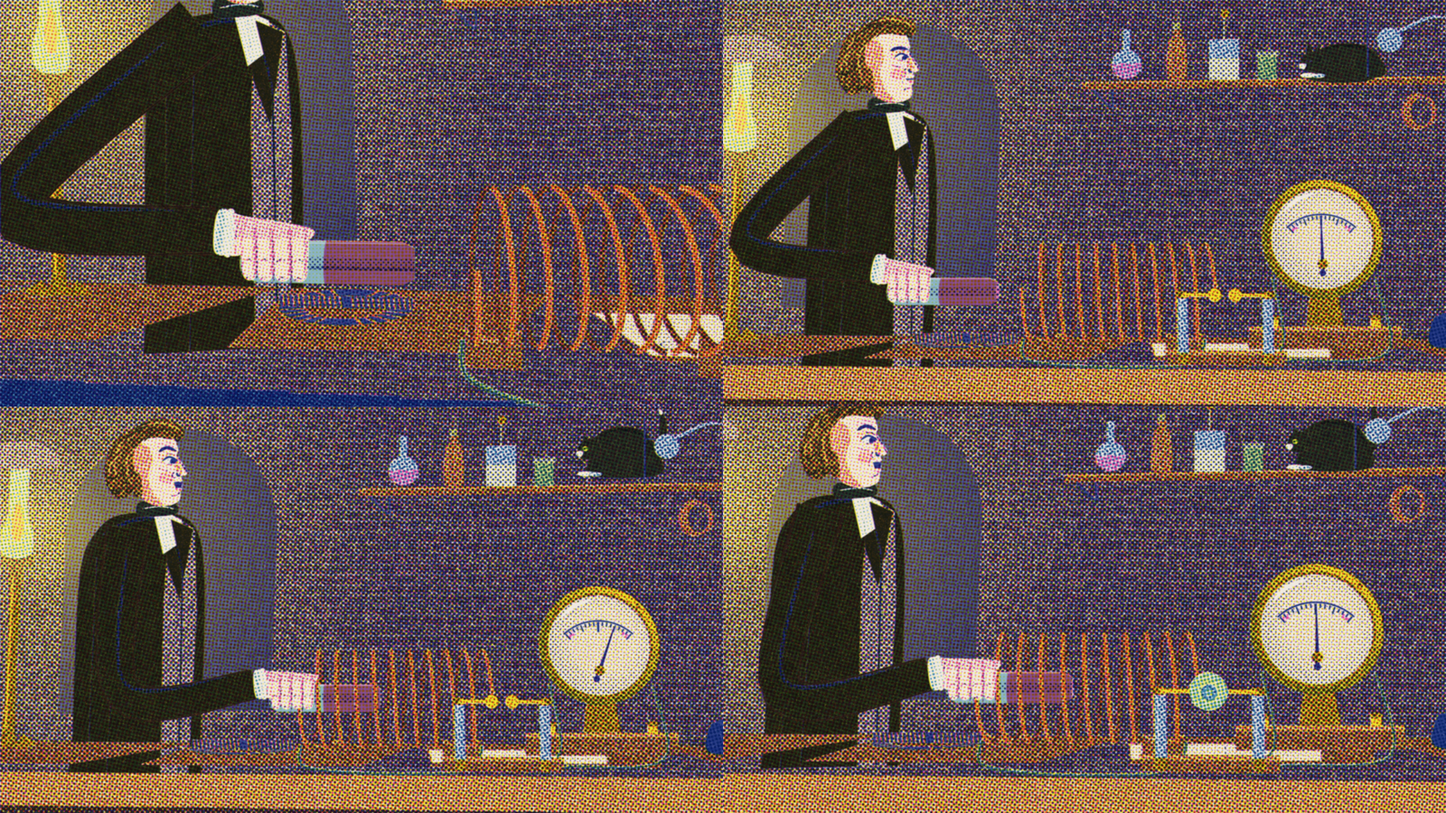
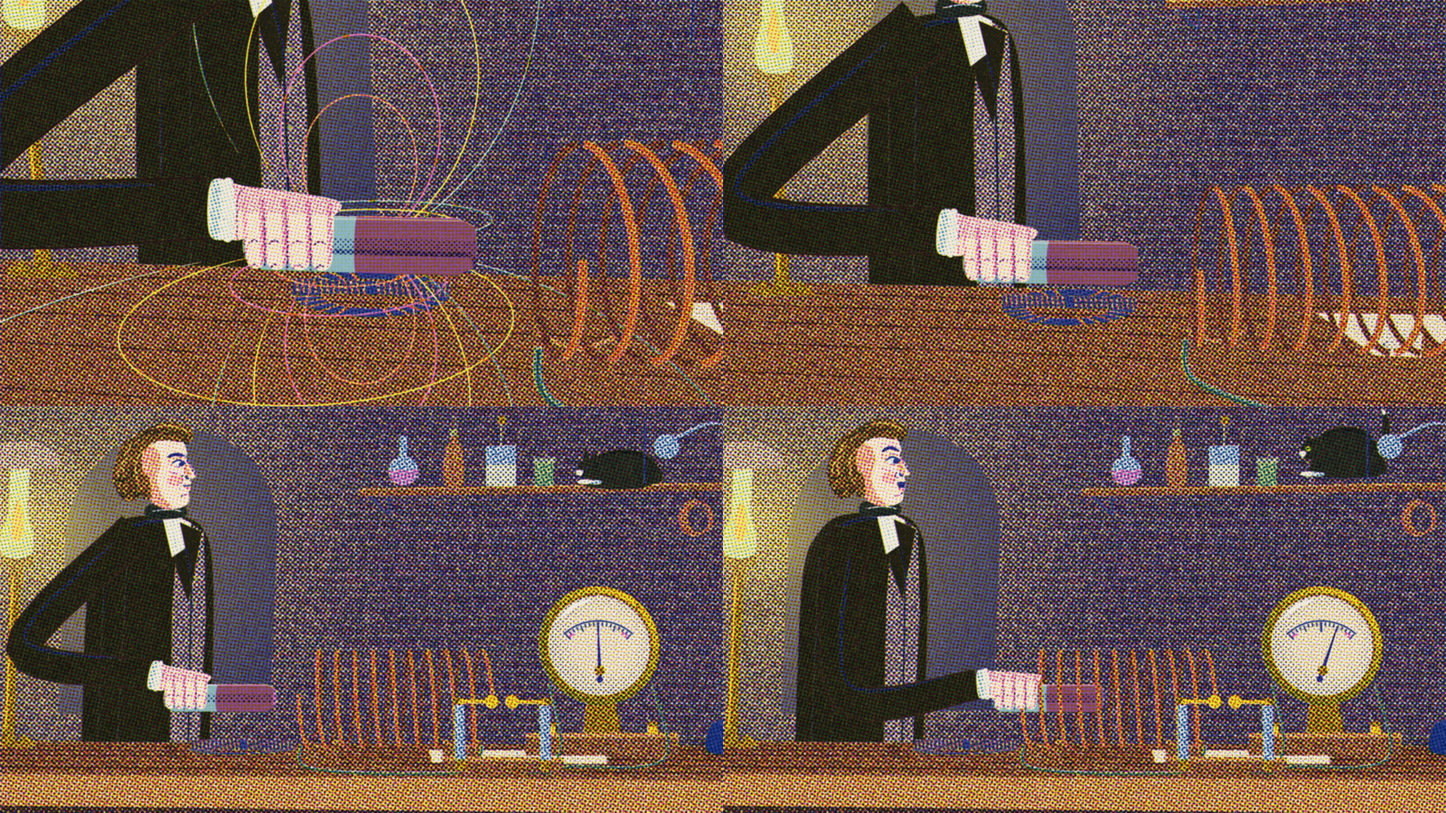
physics-history: Faraday's bench top and front as projected polygons (no seams near the camera)
Claude-Session: https://claude.ai/code/session_01FbC8jfwG91neyKwZD6gkGH

diff --git a/sandbox/2026-09-25-physics-history/lab-faraday.js b/sandbox/2026-09-25-physics-history/lab-faraday.js
@@ -149,27 +149,36 @@ const FarLab = (() => {
 
     // ── the bench ────────────────────────────────────────────────────────────────────────
     function bench(press, C, t) {
-        // the top: planks along x, grain, stains, scorch marks; seen low it is a thin band
-        tiled(press, C, [-1200, 0, -300], [1, 0, 0], [0, 0, 1], 0, 2600, 0, 420, 420, () => {
-            put(press, (g) => g.rect(-2, -2, 2604, 424), WOOD);
-            for (let i = 0; i < 6; i++) {
-                line(press, [[0, i * 70], [2600, i * 70]], 3, WOOD_DK, { knock: false });
-                for (let k = 0; k < 20; k++) line(press, [[k * 130 + Math.sin(i * 3 + k) * 40, i * 70 + 20 + Math.sin(k) * 10], [k * 130 + 90, i * 70 + 24 + Math.sin(k * 2) * 10]], 2, WOOD_LT, { knock: false });
-            }
-            ink(press, ellipse(1500, 140, 60, 26), { 'navy.s': 0.2 });
-            ink(press, ellipse(700, 330, 40, 18), { 'navy.s': 0.25 });
-        });
-        // the front: a thick edge, a panel with drawers and brass pulls
-        // (in tiles: one affine card this large bends wrong near the camera and leaves gaps)
-        tiled(press, C, [-1200, 0, 120], [1, 0, 0], [0, -1, 0], 0, 2600, 0, 800, 200, () => {
-            put(press, (g) => g.rect(-4, -4, 2608, 44), WOOD_LT);
-            put(press, (g) => g.rect(-4, 40, 2608, 760), WOOD_DK);
-            for (let k = 0; k < 6; k++) {
-                put(press, (g) => g.rect(120 + k * 420, 70, 360, 160), WOOD);
-                line(press, [[120 + k * 420, 232], [480 + k * 420, 232]], 4, { navy: 1 });
-                put(press, ellipse(300 + k * 420, 150, 22, 10), BRASS_SH);
-            }
-        });
+        // the top and the front as true projected polygons (not affine cards, which bend and
+        // leave seams near the camera): every point goes through the camera; details are
+        // projected lines and shapes on the surfaces
+        const near = (p) => dot(sub(p, C.eye), C.f) > 4;
+        const P = (p) => { const q = C.proj(p); return [q[0], q[1]]; };
+        const quad = (pts, n = 24) => {
+            // sample the edges, keep what is in front of the camera
+            const out = [];
+            for (let e = 0; e < pts.length; e++) { const a = pts[e], b = pts[(e + 1) % pts.length]; for (let k = 0; k < n; k++) { const u = k / n, q = [a[0] + (b[0] - a[0]) * u, a[1] + (b[1] - a[1]) * u, a[2] + (b[2] - a[2]) * u]; if (near(q)) out.push(P(q)); } }
+            return (g) => { g.beginPath(); out.forEach(([x, y], k) => (k ? g.lineTo(x, y) : g.moveTo(x, y))); g.closePath(); };
+        };
+        const seg3 = (a, b, w, spec) => { const pts = []; for (let k = 0; k <= 16; k++) { const u = k / 16, q = [a[0] + (b[0] - a[0]) * u, a[1] + (b[1] - a[1]) * u, a[2] + (b[2] - a[2]) * u]; if (near(q)) pts.push(P(q)); } if (pts.length > 1) line(press, pts, w, spec, { knock: false }); };
+        const X0 = -1200, X1 = 1400, ZB = -300, ZF = 120;
+        const TOP = quad([[X0, 0, ZB], [X1, 0, ZB], [X1, 0, ZF], [X0, 0, ZF]]);
+        put(press, TOP, WOOD);
+        press.save(); press.clip(TOP);
+        for (let i = 1; i < 6; i++) seg3([X0, 0, ZB + i * 70], [X1, 0, ZB + i * 70], 2.4, WOOD_DK);
+        for (let i = 0; i < 6; i++) for (let k = 0; k < 20; k++) { const x = X0 + k * 130 + Math.sin(i * 3 + k) * 40, z = ZB + i * 70 + 22 + Math.sin(k) * 10; seg3([x, 0, z], [x + 90, 0, z + 3], 1.6, WOOD_LT); }
+        ink(press, quad([[260, 0, -180], [380, 0, -180], [380, 0, -120], [260, 0, -120]], 6), { 'navy.s': 0.2 });
+        press.restore();
+        // the front: its lit edge, the dark panel, drawers with brass pulls
+        const FR = quad([[X0, 0, ZF], [X1, 0, ZF], [X1, -800, ZF], [X0, -800, ZF]]);
+        put(press, FR, WOOD_DK);
+        put(press, quad([[X0, 0, ZF], [X1, 0, ZF], [X1, -40, ZF], [X0, -40, ZF]]), WOOD_LT);
+        for (let k = 0; k < 6; k++) {
+            const x = X0 + 120 + k * 420;
+            put(press, quad([[x, -70, ZF], [x + 360, -70, ZF], [x + 360, -230, ZF], [x, -230, ZF]], 8), WOOD);
+            seg3([x, -232, ZF], [x + 360, -232, ZF], 3, { navy: 1 });
+            const q = [x + 180, -150, ZF]; if (near(q)) { const c = P(q), k2 = C.flen / C.proj(q)[2]; put(press, ellipse(c[0], c[1], 22 * k2, 10 * k2), BRASS_SH); }
+        }
         lamp(press, C, t);
         // Faraday's notebook, open, lying on the bench (sketches of rings and helices)
         card(press, C, [60, 0.5, -200], [1, 0, 0], [0, 0, 1], () => {
